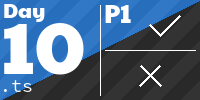
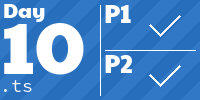
2025 Day 10 part 2

diff --git a/2025/10/main.ts b/2025/10/main.ts
@@ -1,7 +1,8 @@
+import { equalTo, solve } from "yalps";
 import { readLines } from "../utils";
 
-function toNumber(array: boolean[]): number {
-  return array.reduce((acc, bit) => (acc << 1) | Number(bit), 0);
+function toNumber(array: number[]): number {
+  return array.reduce((acc, bit) => (acc << 1) | bit, 0);
 }
 function powerSet<T>(arr: T[]): T[][] {
   const result: T[][] = [[]];
@@ -25,13 +26,13 @@ async function getInput() {
       throw new Error(`could not pattern match line ${line}`);
     }
     const { targetStr, buttonsStr, joltageStr } = match.groups;
-    const target = toNumber(targetStr.split("").map((c) => c == "#"));
+    const target = toNumber(targetStr.split("").map((c) => c == "#" ? 1 : 0));
     const buttons = buttonsStr.trim().split(" ").map((buttonRaw) => {
       const line = Array.from(buttonRaw.matchAll(/\d+/g)).map((match) =>
         Number(match[0])
       );
       return Array.from({ length: targetStr.length }).map((_, i) =>
-        line.includes(i)
+        line.includes(i) ? 1 : 0
       );
     });
     const joltage = joltageStr.split(",").map(Number);
@@ -52,6 +53,22 @@ const part1 = lines.map(({ target, buttons }) => {
 console.log("Part 1:", part1);
 
 const part2 = lines.map(({ buttons, joltage }) => {
-  return 0;
+  const constraints = Object.fromEntries(
+    joltage.map((jolt, i) => [`j${i}`, equalTo(jolt)]),
+  );
+  const variables = Object.fromEntries(buttons.map((button, i) => {
+    return [`b${i}`, {
+      sum: 1,
+      ...Object.fromEntries(button.map((b, i) => [`j${i}`, b])),
+    }];
+  }));
+  const solution = solve({
+    direction: "minimize",
+    objective: "sum",
+    constraints: constraints,
+    variables: variables,
+    integers: Object.keys(variables),
+  });
+  return solution.variables.map((v) => v[1]).reduce((a, b) => a + b);
 }).reduce((a, b) => a + b);
 console.log("Part 2:", part2);

diff --git a/README.md b/README.md
@@ -1,9 +1,9 @@
 <!-- AOC TILES BEGIN -->
 <h1 align="center">
-  Advent of Code - 368/522 ⭐
+  Advent of Code - 369/522 ⭐
 </h1>
 <h1 align="center">
-  2025 - 21 ⭐ - TypeScript
+  2025 - 22 ⭐ - TypeScript
 </h1>
 <a href="2025/01/main.ts">
   <img src=".aoc_tiles/tiles/2025/01.png" width="161px">
